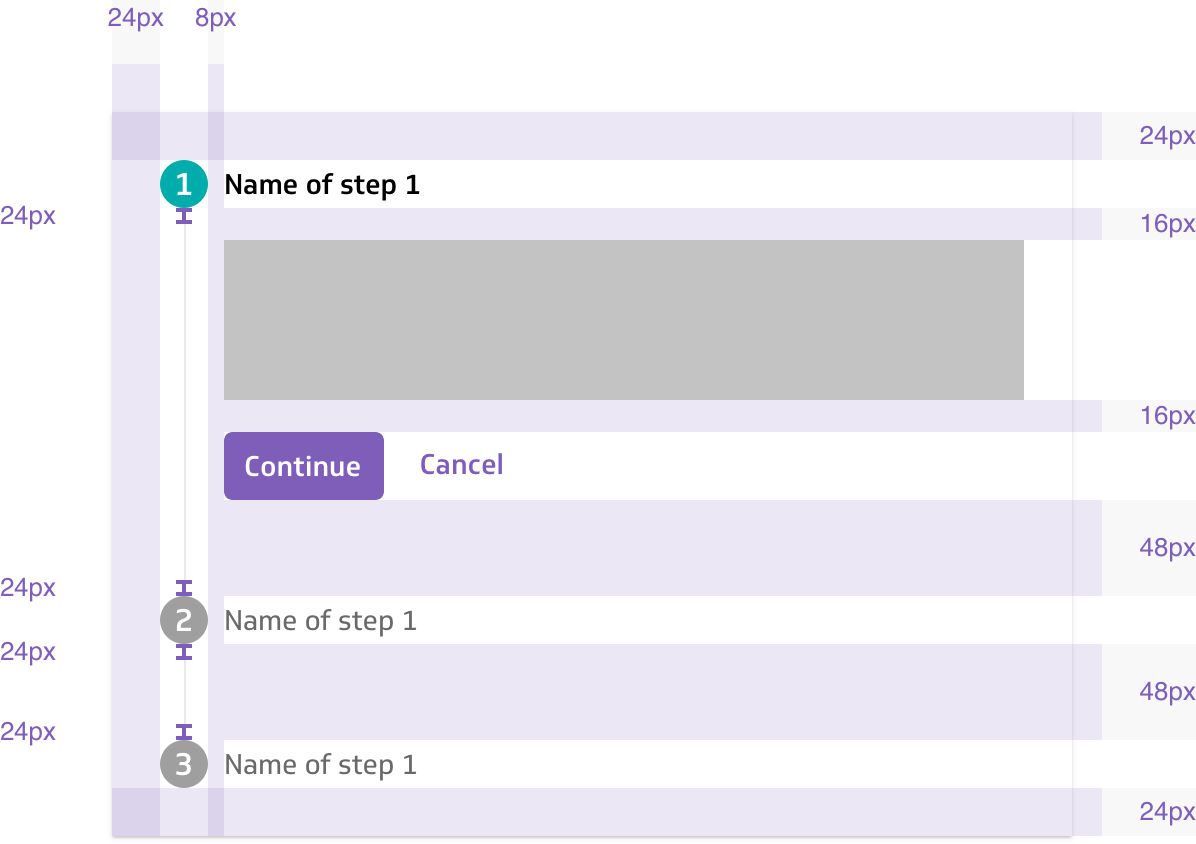
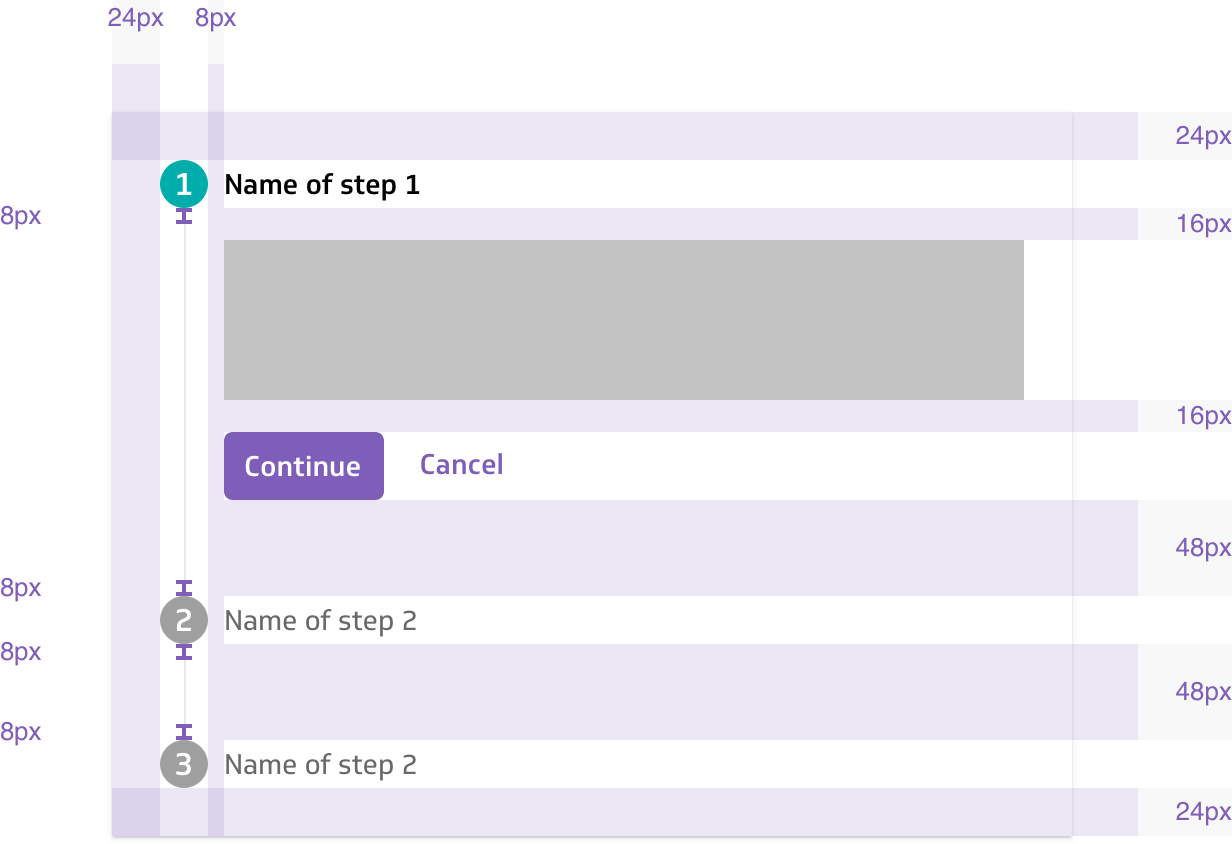
stepper fix bug 419 please update to new image

diff --git a/src/assets/documents/components/stepper.html b/src/assets/documents/components/stepper.html
@@ -170,16 +170,16 @@
 
     <div class="docs-guideline-group">
       <div
-        class="docs-usage-do docs-usage-w100 docs-usage-center"
-        style="height:360px"
+        class="docs-usage-do docs-usage-w100 docs-usage-center-no-scale"
+        style="height:442px"
       >
-        <img src="assets/img/doc/stepper-do.png" alt="" />
+        <img src="assets/img/doc/stepper-do.png" alt="" style="width: 688px;height: 362px;"/>
       </div>
       <div
-        class="docs-usage-dont docs-usage-w100 docs-usage-center docs-mt16"
-        style="height:360px"
+        class="docs-usage-dont docs-usage-w100 docs-usage-center-no-scale docs-mt16"
+        style="height:514px"
       >
-        <img src="assets/img/doc/stepper-dont.png" alt="" />
+        <img src="assets/img/doc/stepper-dont.png" alt="" style="width: 688px;height: 434px;"/>
       </div>
     </div>
 
@@ -192,16 +192,16 @@
       >
     </div>
 
-    <div class="docs-usage-spec docs-usage-center mb-16" style="height:280px">
-      <img src="assets/img/doc/stepper-spec.png" alt="" />
+    <div class="docs-usage-spec docs-usage-center-no-scale mb-16" style="height:280px">
+      <img src="assets/img/doc/stepper-spec.png" alt="" style="width:600px;height: 56px;"/>
     </div>
 
-    <div class="docs-usage-spec docs-usage-center mb-16" style="height:280px">
-      <img src="assets/img/doc/stepper-spec-optional.png" alt="" />
+    <div class="docs-usage-spec docs-usage-center-no-scale mb-16" style="height:280px">
+      <img src="assets/img/doc/stepper-spec-optional.png" alt="" style="width:665px;height: 112px;""/>
     </div>
 
-    <div class="docs-usage-spec docs-usage-center mb-16" style="height:522px">
-      <img src="assets/img/doc/stepper-spec-content.png" alt="" />
+    <div class="docs-usage-spec docs-usage-center-no-scale mb-16" style="height:522px">
+      <img src="assets/img/doc/stepper-spec-content.png" alt="" style="width:616px;height: 418px;"/>
     </div>
 
     <div class="doc-divider"></div>
